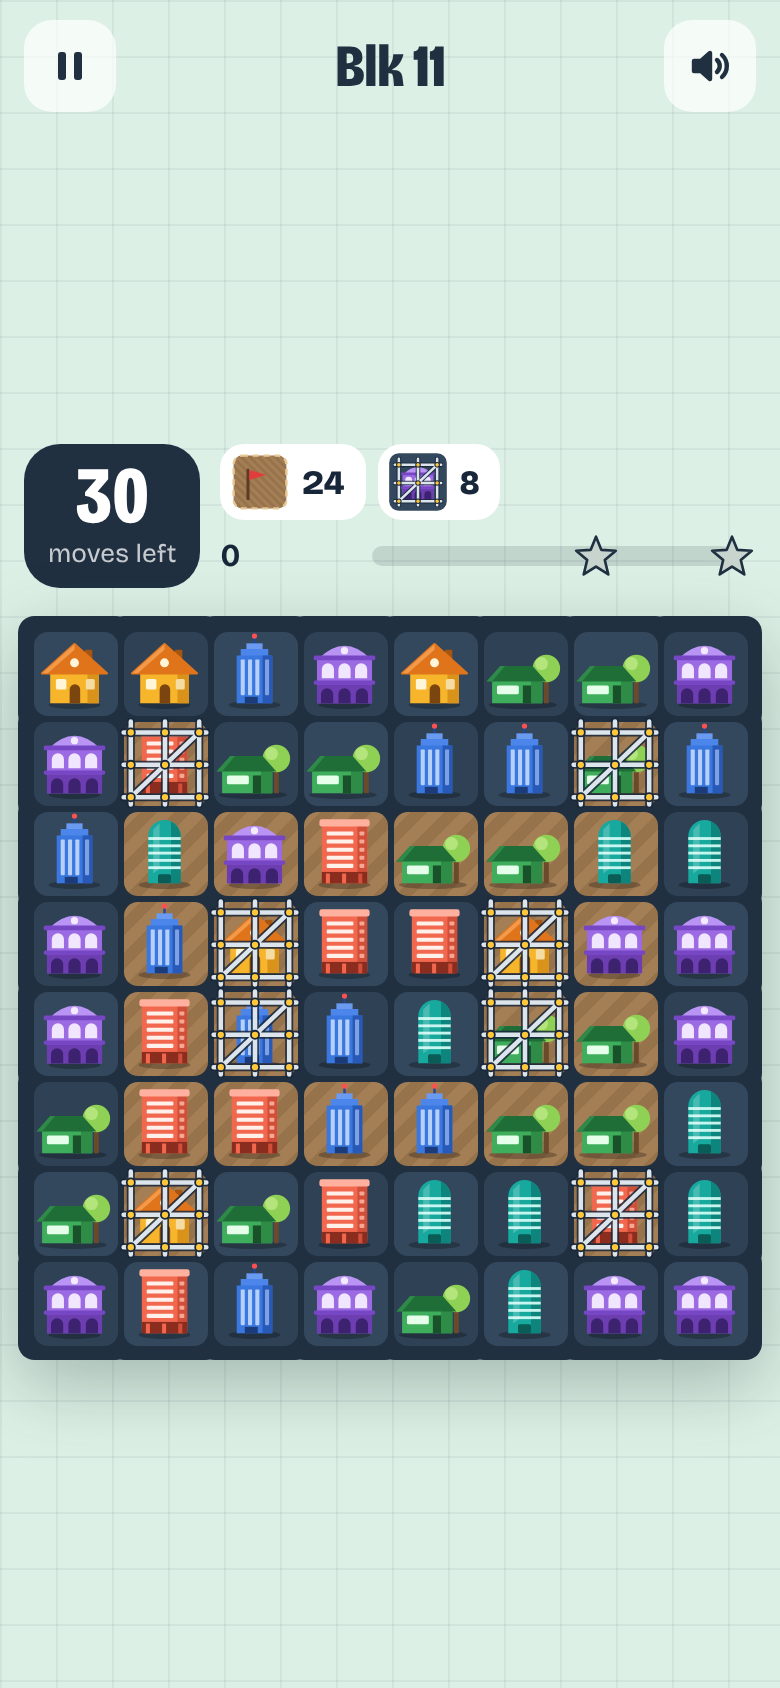
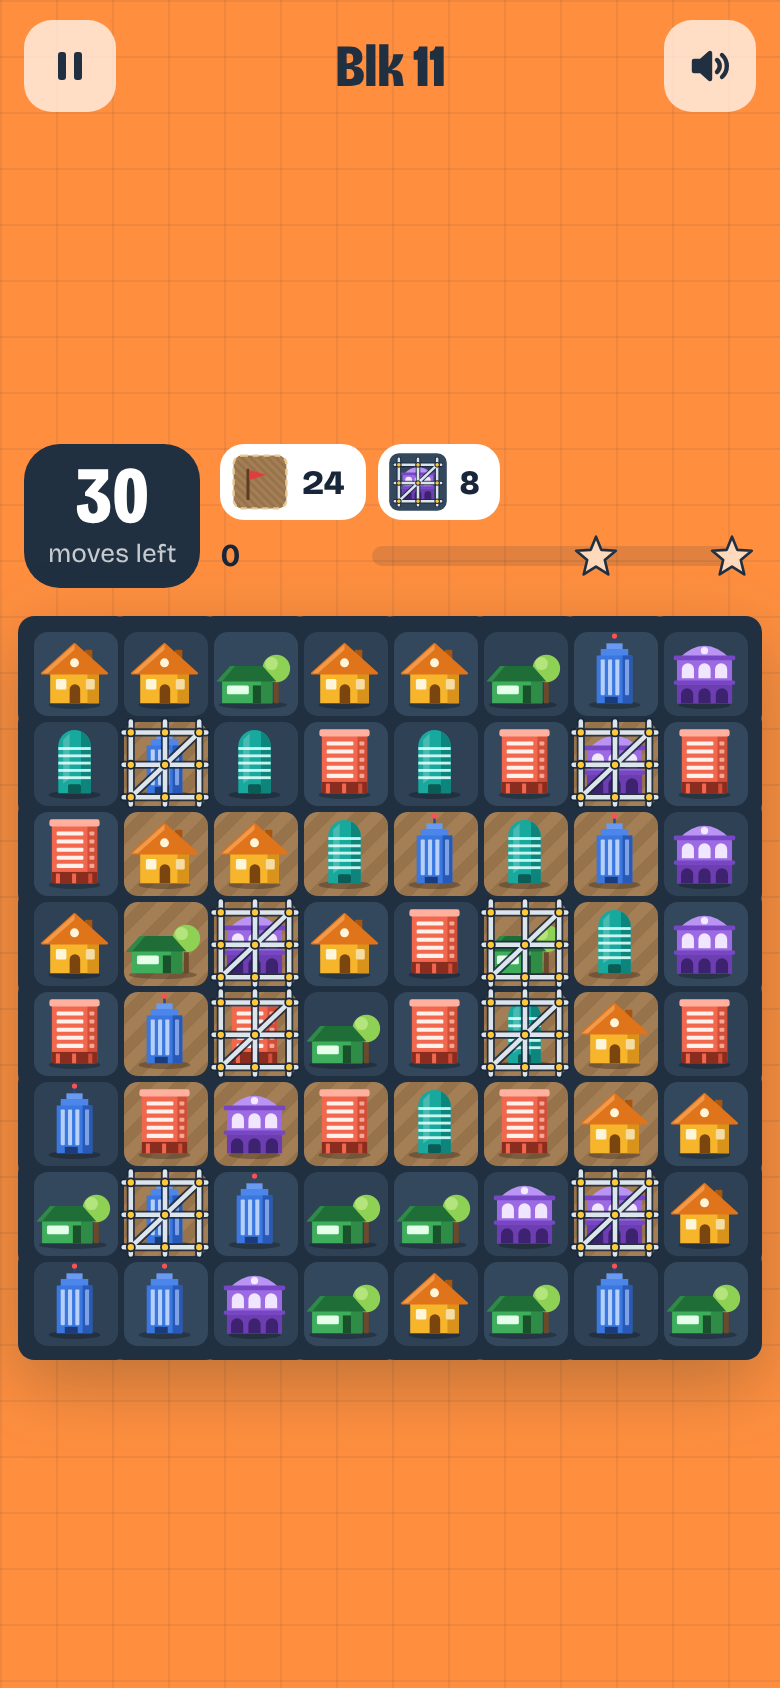
Change background to orange
- Page background, theme colour and splash colour now #FF8F3F
- Retune map road, locked plaques, intro text and meter stars for contrast
- Regenerate install screenshots
- Bump service worker cache to v2 so installed copies refresh

Claude-Session: https://claude.ai/code/session_01JDJfEoudhkGWPUHfq3bvTk

diff --git a/index.html b/index.html
@@ -3,7 +3,7 @@
 <head>
 <meta charset="utf-8">
 <meta name="viewport" content="width=device-width, initial-scale=1, maximum-scale=1, user-scalable=no, viewport-fit=cover">
-<meta name="theme-color" content="#DDF0E5">
+<meta name="theme-color" content="#FF8F3F">
 <meta name="description" content="Block Party: a property-themed match-3 puzzle game. Match Singapore homes to build out the estate across 15 blocks.">
 <title>Block Party</title>
 <link rel="manifest" href="/manifest.webmanifest">
@@ -23,7 +23,7 @@
   src:url(/fonts/bricolage-grotesque-latin.woff2) format('woff2-variations'),url(/fonts/bricolage-grotesque-latin.woff2) format('woff2');
 }
 :root{
-  --mint:#DDF0E5; --mint-2:#C6E2D3; --grid:rgba(24,38,58,.06);
+  --bg:#FF8F3F; --grid:rgba(24,38,58,.07);
   --slate:#203041; --tile:#34485D; --tile-alt:#2E4155;
   --ink:#18263A; --muted:#4E6072;
   --sign:#FFC83A; --sign-press:#D29A12;
@@ -34,7 +34,7 @@
 *{box-sizing:border-box}
 html,body{height:100%;margin:0}
 body{
-  background-color:var(--mint);
+  background-color:var(--bg);
   background-image:linear-gradient(var(--grid) 1px,transparent 1px),linear-gradient(90deg,var(--grid) 1px,transparent 1px);
   background-size:28px 28px;
   color:var(--ink);
@@ -81,11 +81,11 @@ button{font:inherit;color:inherit;cursor:pointer}
 .skyline svg{display:block;width:56px;height:56px;margin-bottom:-6px}
 .skyline svg:nth-child(2){width:64px;height:64px}
 .skyline svg:nth-child(6){width:62px;height:62px}
-.lede{margin:12px 20px 0;font-size:16px;line-height:1.45;color:var(--muted);max-width:34ch}
+.lede{margin:12px 20px 0;font-size:16px;line-height:1.45;color:#3A2516;max-width:34ch}
 .map-scroll{flex:1;overflow-y:auto;overflow-x:hidden;-webkit-overflow-scrolling:touch;margin-top:6px;touch-action:pan-y}
 .road{position:relative;margin:0 16px}
 .road-svg{position:absolute;left:0;top:0;pointer-events:none}
-.road-base{fill:none;stroke:#BBD6C8;stroke-width:22;stroke-linecap:round}
+.road-base{fill:none;stroke:#FFC08C;stroke-width:22;stroke-linecap:round}
 .road-line{fill:none;stroke:#fff;stroke-width:3;stroke-dasharray:10 12;stroke-linecap:round}
 .plaque{position:absolute;transform:translate(-50%,-50%);width:78px;height:84px;border:0;border-radius:18px;
   background:var(--slate);color:#fff;display:flex;flex-direction:column;align-items:center;justify-content:center;padding:6px 0 8px;
@@ -97,10 +97,10 @@ button{font:inherit;color:inherit;cursor:pointer}
 .plaque .st svg{width:15px;height:15px}
 .plaque.current{background:var(--sign);color:var(--ink);box-shadow:0 5px 0 var(--sign-press)}
 .plaque.current::after{content:"";position:absolute;inset:-7px;border-radius:24px;border:3px solid var(--sign);animation:ring 1.8s ease-out infinite}
-.plaque.locked{background:#B7CDC1;color:#61776B;box-shadow:0 5px 0 #9DB6A9}
+.plaque.locked{background:#FFC495;color:#9C4A17;box-shadow:0 5px 0 #E2894A}
 .plaque.locked .st svg{width:16px;height:16px}
 @keyframes ring{0%{opacity:.9;transform:scale(.92)}100%{opacity:0;transform:scale(1.2)}}
-.map-foot{padding:12px 20px calc(16px + env(safe-area-inset-bottom));background:linear-gradient(transparent,var(--mint) 30%)}
+.map-foot{padding:12px 20px calc(16px + env(safe-area-inset-bottom));background:linear-gradient(transparent,var(--bg) 30%)}
 
 /* ---------- game ---------- */
 .topbar{display:flex;align-items:center;justify-content:space-between;padding:10px 12px 4px}
@@ -124,7 +124,7 @@ button{font:inherit;color:inherit;cursor:pointer}
 .meter .fill{position:absolute;left:0;top:0;bottom:0;border-radius:6px;background:var(--slate);width:0;transition:width .35s}
 .meter .mk{position:absolute;top:50%;width:22px;height:22px;transform:translate(-50%,-50%)}
 .meter .mk svg{width:100%;height:100%}
-.meter .mk svg{fill:#C7D5CE}
+.meter .mk svg{fill:#FFD9BC}
 .meter .mk.on svg{fill:var(--sign)}
 
 .play{flex:1;min-height:0;display:flex;flex-direction:column;justify-content:center}
@@ -429,7 +429,7 @@ document.getElementById('sprite').innerHTML = `
 <symbol id="sym-star" viewBox="0 0 100 100"><path d="${STAR}" stroke="#203041" stroke-width="6" stroke-linejoin="round"/></symbol>
 <symbol id="sym-starfill" viewBox="0 0 100 100"><path d="${STAR}" fill="#FFC83A" stroke="#18263A" stroke-width="6" stroke-linejoin="round"/></symbol>
 <symbol id="sym-starempty" viewBox="0 0 100 100"><path d="${STAR}" fill="none" stroke="rgba(255,255,255,.45)" stroke-width="7" stroke-linejoin="round"/></symbol>
-<symbol id="sym-padlock" viewBox="0 0 24 24"><rect x="5" y="10.5" width="14" height="10" rx="2.5" fill="#61776B"/><path d="M8 10.5V8a4 4 0 0 1 8 0v2.5" fill="none" stroke="#61776B" stroke-width="2.4"/></symbol>
+<symbol id="sym-padlock" viewBox="0 0 24 24"><rect x="5" y="10.5" width="14" height="10" rx="2.5" fill="#9C4A17"/><path d="M8 10.5V8a4 4 0 0 1 8 0v2.5" fill="none" stroke="#9C4A17" stroke-width="2.4"/></symbol>
 </defs></svg>`;
 
 /* =========================================================

diff --git a/sw.js b/sw.js
@@ -1,6 +1,6 @@
 // Block Party service worker: makes the game load instantly and play offline.
 // Bump VERSION when you want installed copies to drop their old cache.
-const VERSION = 'v1';
+const VERSION = 'v2';
 const CACHE = `blockparty-${VERSION}`;
 const PRECACHE = [
   '/',
